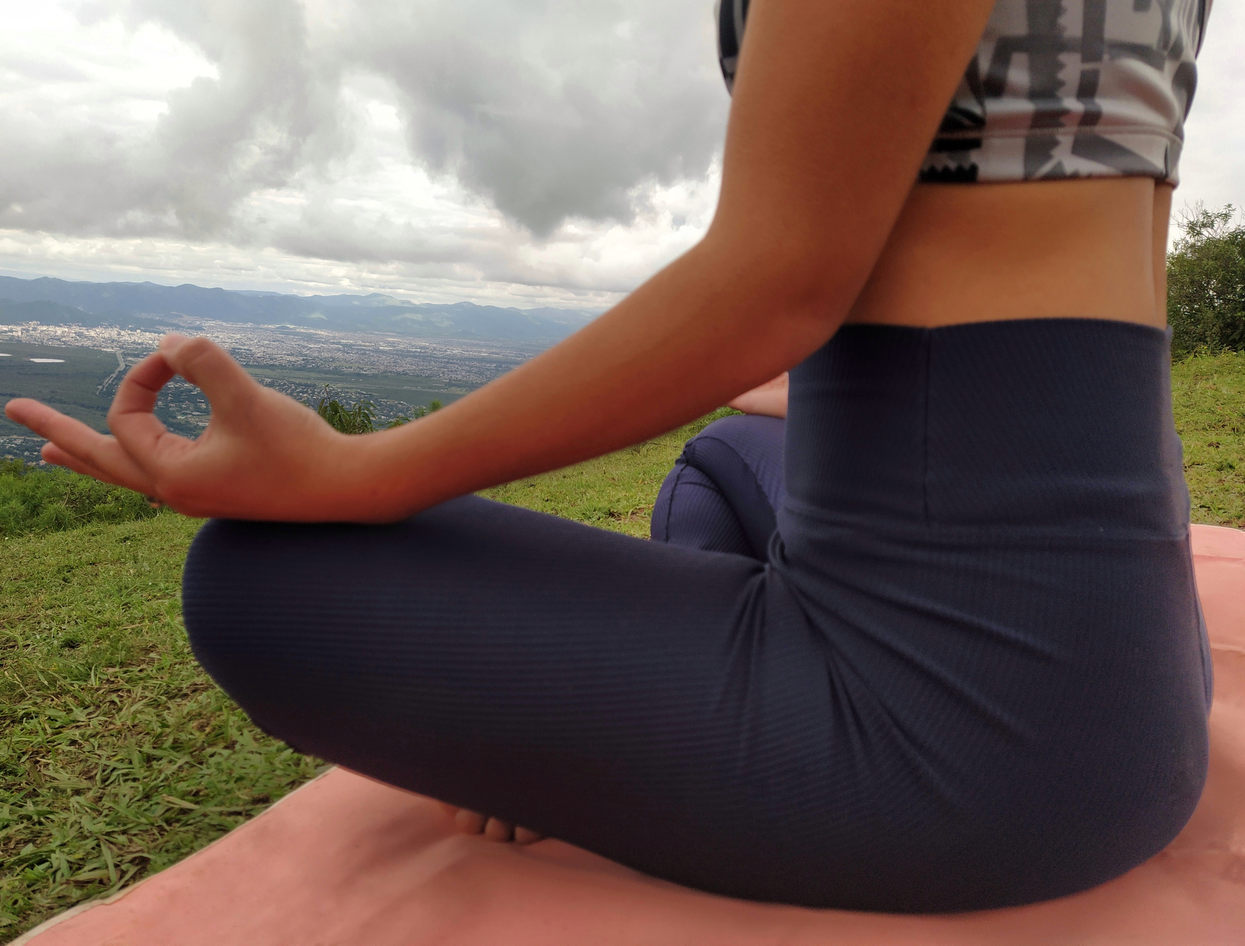
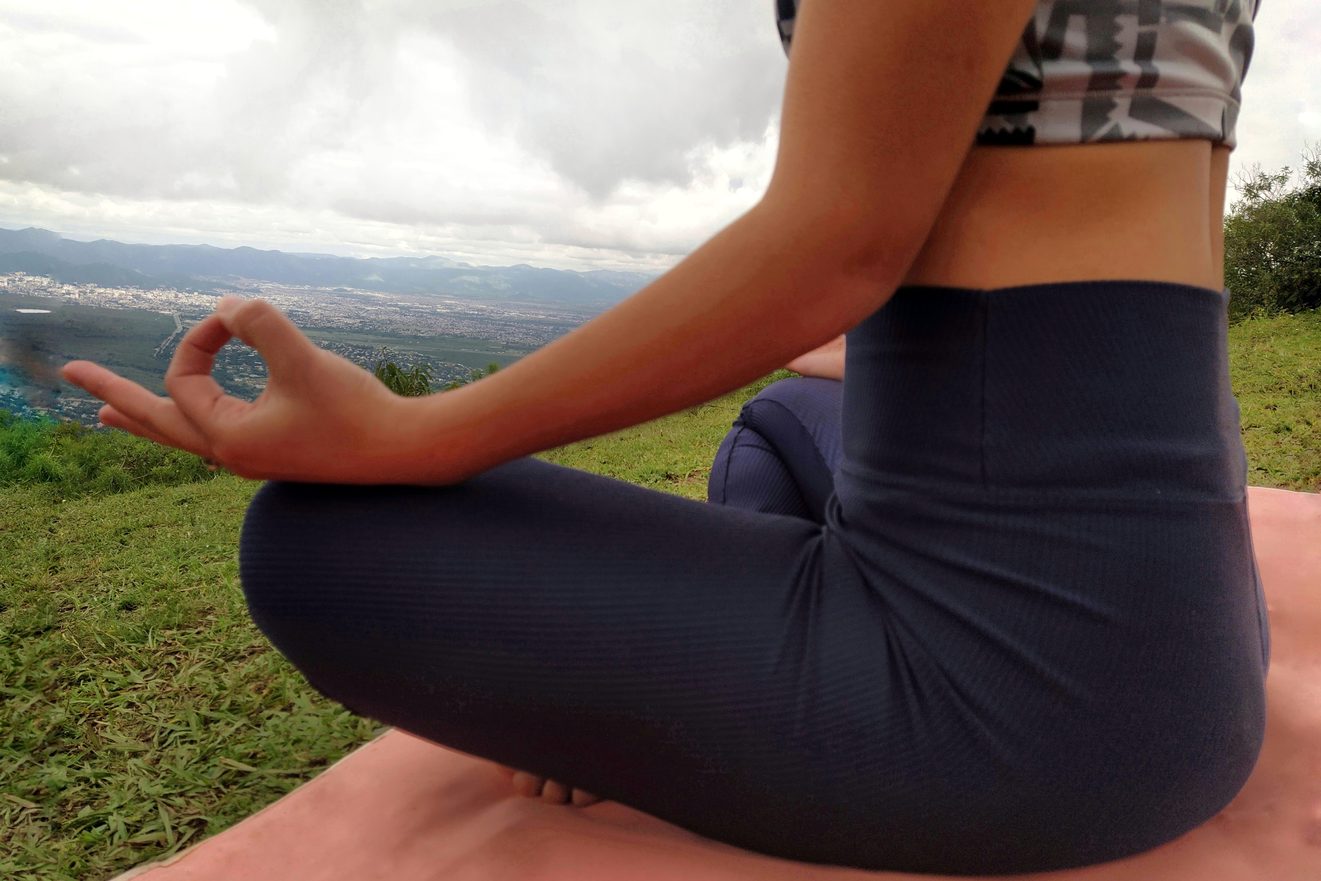
Cambio fotos carousel

diff --git a/index.html b/index.html
@@ -30,7 +30,7 @@
             <a href="index.html"
               ><img class="logo-image" src="./assets/img/logo2.png" alt="logo"
             /></a>
-            <h1 class="logo-title">Yogaluna</h1>
+            <h1 class="logo-title">YogaLuna</h1>
           </div>
           <div class="mobile-icon-container">
             <p class="mobile-icon" id="mobile-icon">
@@ -113,7 +113,11 @@
                 <p class="carousel-image-text">Clases online y presenciales</p>
                 <a href="#" class="category-button">¡Quiero empezar!</a>
               </div>
-              <!-- <img src="./assets/img/matsyasana.jpg" class="d-block w-100" alt="image1" /> -->
+              <!-- <img
+                src="./assets/img/matsyasana.jpg"
+                class="d-block w-100"
+                alt="image1"
+              /> -->
               <img
                 src="./assets/img/prueba-carousel.jpg"
                 class="d-block w-100"
@@ -128,7 +132,7 @@
                 </p>
               </div>
               <img
-                src="./assets/img/ginny-rose-stewart-UxkcSzRWM2s-unsplash.jpg"
+                src="./assets/img/natarajasana.jpg"
                 class="d-block w-100"
                 alt="image2"
               />

diff --git a/assets/css/style.css b/assets/css/style.css
@@ -51,8 +51,7 @@ header {
           flex-direction: column;
           justify-content: flex-end;
           font-size: 3rem;
-          font-weight: bold;
-          text-transform: uppercase; }
+          font-weight: bold; }
       header .mobile-header .mobile-header-navbar .mobile-icon-container {
         padding: 1rem;
         padding-top: 3.5rem;
@@ -118,8 +117,7 @@ header {
     margin-left: 2rem; }
     .yogaluna-section .carousel-link .carousel-image-text {
       font-size: 2rem;
-      font-weight: bold;
-      color: #ffff; }
+      font-weight: bold; }
     .yogaluna-section .carousel-link .category-button {
       background-color: #f2b1be;
       border-radius: 1rem;
@@ -128,8 +126,7 @@ header {
       font-weight: bold; }
     .yogaluna-section .carousel-link #image3-text {
       font-size: 1.6rem;
-      width: 20rem;
-      color: black; }
+      width: 20rem; }
 
 .category {
   width: 80%;

diff --git a/assets/css/sass/style.scss b/assets/css/sass/style.scss
@@ -65,7 +65,7 @@ header {
           justify-content: flex-end;
           font-size: 3rem;
           font-weight: bold;
-          text-transform: uppercase;
+          // text-transform: uppercase;
         }
       }
       .mobile-icon-container {
